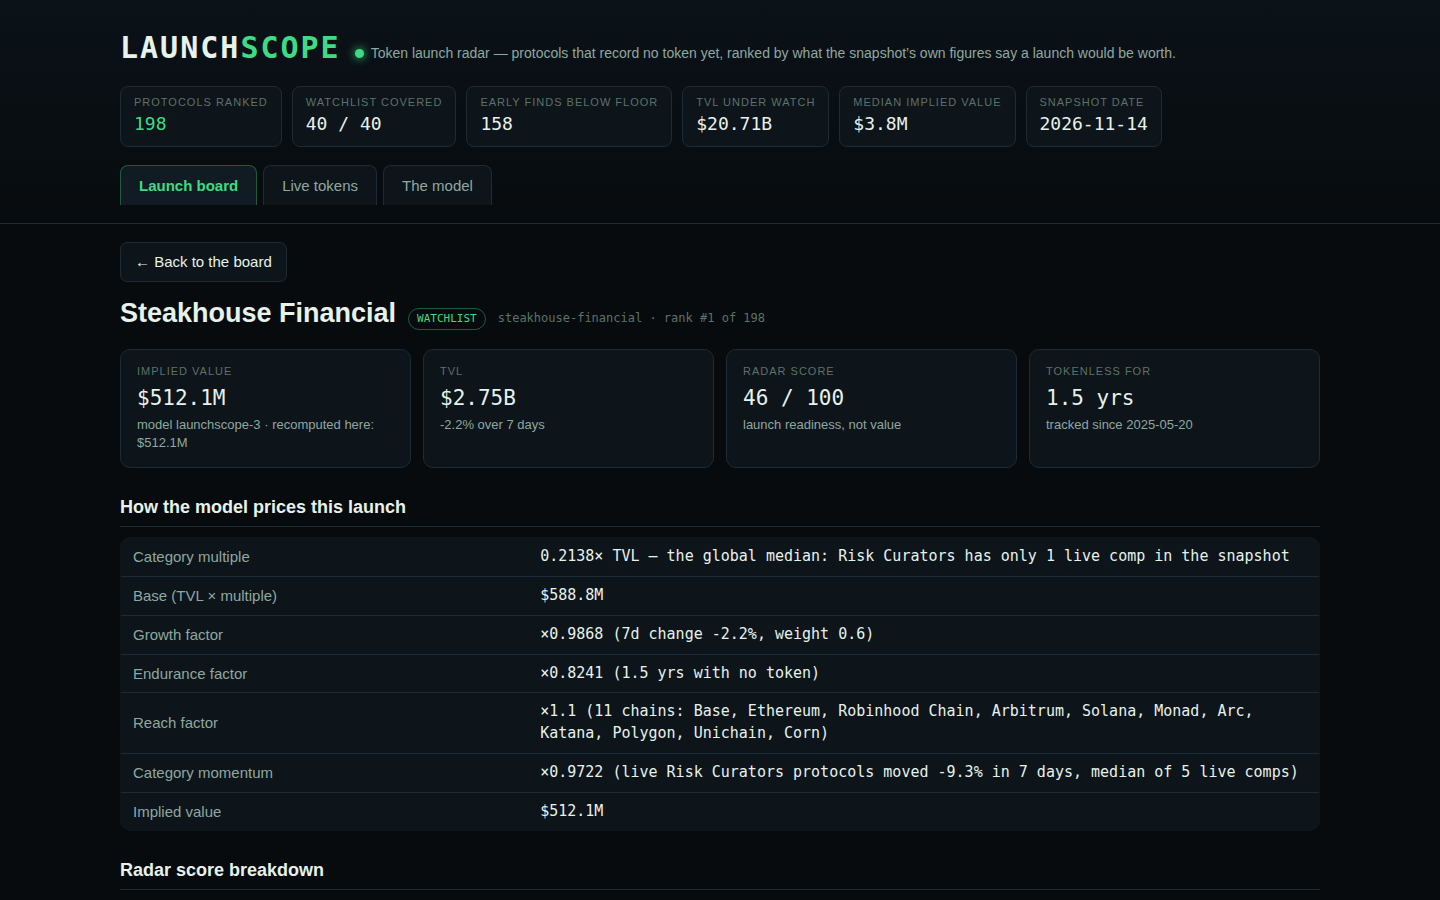
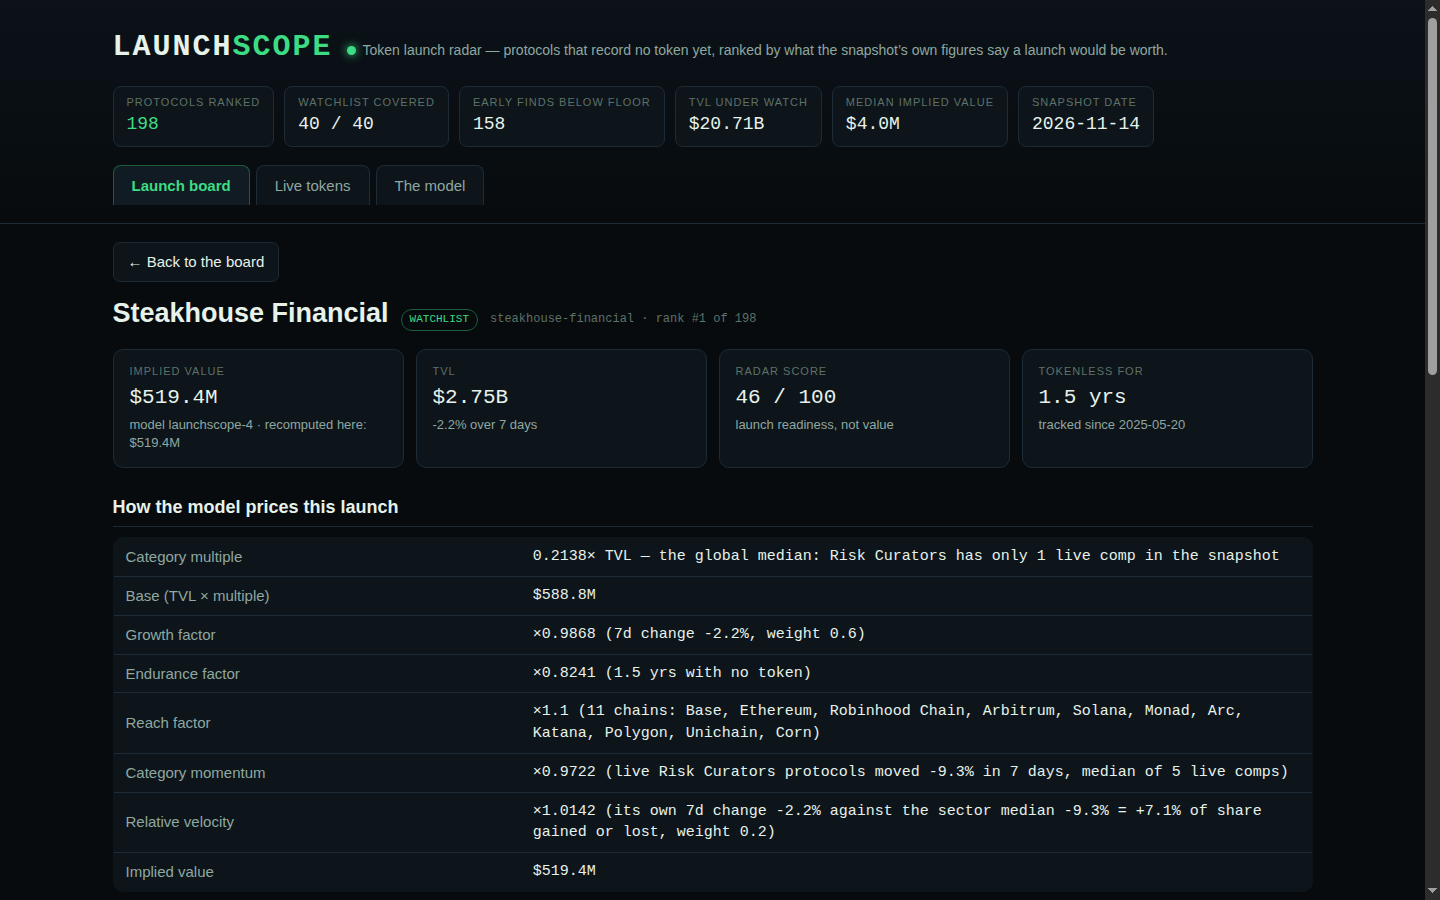
LaunchScope: relative-velocity factor (model launchscope-4)
Sector-relative velocity: a protocol's own 7-day TVL change against its
category's median live-token change, weight 0.2, clamped [-50, +100].
Growth rewards absolute momentum; relative rewards winning share inside
the sector. No adjustment when the snapshot reports no 7-day change.
Re-ranks 92/198 rows (top 10 unchanged); dashboard gains a fifth signal
card, a detail-view breakdown row, a sector-lag risk note and a sandbox
slider. Sandbox recompute matches to 0.03%.

diff --git a/dashboard/app.js b/dashboard/app.js
@@ -60,7 +60,8 @@
     var age = row.age_days === null ? M.unknown_age_days : row.age_days;
     var range = sb ? M.endurance_range * sb.endurance : M.endurance_range;
     var enduranceMult = M.endurance_floor + (clamp(age, 0, M.endurance_days) / M.endurance_days) * range;
-    return Math.max(1, Math.round(row.tvl_usd * multiple * growthMult * enduranceMult * row.model.reach_multiplier * row.model.momentum_multiplier));
+    var relMult = sb ? 1 + (clamp(row.model.relative_pct, M.growth_floor, M.growth_cap) / 100) * sb.relative : row.model.relative_multiplier;
+    return Math.max(1, Math.round(row.tvl_usd * multiple * growthMult * enduranceMult * row.model.reach_multiplier * row.model.momentum_multiplier * relMult));
   }
 
   /* ---------- routing / state ---------- */
@@ -177,6 +178,7 @@
     var byTvl = DATA.rows.slice().sort(function (a, b) { return b.tvl_usd - a.tvl_usd; })[0];
     var fresh = DATA.rows.filter(function (r) { return r.age_days !== null && r.age_days <= 120; }).sort(function (a, b) { return b.implied_value_usd - a.implied_value_usd; })[0];
     var hotCat = DATA.categories.filter(function (c) { return c.board_protocols > 0 && c.median_change_7d !== null; }).sort(function (a, b) { return b.median_change_7d - a.median_change_7d; })[0];
+    var gainer = DATA.rows.slice().sort(function (a, b) { return b.model.relative_pct - a.model.relative_pct; })[0];
     function card(cls, k, row, d, fn) {
       return el('button', { type: 'button', class: 'signal ' + cls, onclick: fn }, [
         el('div', { class: 'k', text: k }), el('div', { class: 'v', text: row.name }), el('div', { class: 'd', text: d(row) }),
@@ -187,6 +189,7 @@
       card('amber', 'Signal · largest tokenless TVL', byTvl, function (r) { return fmtUsd(r.tvl_usd) + ' TVL · no token recorded'; }, function () { go('#/p/' + encodeURIComponent(byTvl.slug)); }),
       card('blue', 'Signal · fresh listing', fresh, function (r) { return 'tracked for ' + fmtAge(r.age_days) + ' · implied ' + fmtUsd(r.implied_value_usd); }, function () { state.sort = 'age'; state.dir = -1; go(boardHash()); }),
       hotCat ? card('blue', 'Signal · hottest category', { name: hotCat.category }, function () { return 'live ' + hotCat.category + ' protocols ' + fmtPct(hotCat.median_change_7d) + ' in 7d · ' + hotCat.board_protocols + ' on the board'; }, function () { state.cat = hotCat.category; state.tier = 'all'; go(boardHash()); }) : null,
+      card('green', 'Signal · gaining share fastest', gainer, function (r) { return fmtPct(r.model.relative_pct) + ' vs its own sector in 7d · implied ' + fmtUsd(r.implied_value_usd); }, function () { go('#/p/' + encodeURIComponent(gainer.slug)); }),
     ]);
   }
   function boardView() {
@@ -261,6 +264,7 @@
     if (r.chains.length <= 1) notes.push(['amber', 'Single-chain presence: the reach factor is at its floor. A launch, if it comes, likely starts and ends on ' + (r.chains[0] || 'one chain') + '.']);
     if (r.model.multiple_source === 'global') notes.push(['amber', 'Thin comp set: ' + (r.category || 'its category') + ' has ' + (r.model.comps_used === 0 ? 'no live-token protocols' : 'only ' + r.model.comps_used + ' live comp' + (r.model.comps_used === 1 ? '' : 's')) + ' in the snapshot, so the implied value uses the global median multiple (' + DATA.global_multiple + '\u00D7 TVL) instead of a category price. Read it as rougher than its neighbours.']);
     if (r.model.category_momentum_pct < -10) notes.push(['red', 'Cooling category: live ' + (r.category || 'Uncategorised') + ' protocols fell ' + fmtPct(r.model.category_momentum_pct) + ' in 7 days, so the momentum factor already discounts the implied value. A sector losing TVL can still launch a token — but it launches into a headwind.']);
+    if (r.model.relative_pct < -10) notes.push(['red', 'Losing share inside its own sector: this protocol grew ' + fmtPct(r.model.relative_pct) + ' against live ' + (r.category || 'Uncategorised') + ' protocols over 7 days, so the relative-velocity factor discounts it even when its absolute growth looks fine. Users are choosing its sector peers over it.']);
     if (r.implied_value_usd / r.tvl_usd > 2) notes.push(['red', 'Rich implied multiple: the model prices this launch above 2\u00D7 current TVL. That is the category\u2019s market price carried over, not a promise — small errors in the multiple move this value a lot.']);
     if (notes.length === 0) notes.push(['amber', 'No structural flags: size, growth, age and reach are all inside the ranges the model handles well. The standing risk remains — the snapshot records no token, which is not proof none exists, and no model can say whether or when one is issued.']);
     return notes;
@@ -296,6 +300,7 @@
         kv('Endurance factor', '\u00D7' + r.model.endurance_multiplier + ' (' + fmtAge(r.age_days) + ' with no token)'),
         kv('Reach factor', '\u00D7' + r.model.reach_multiplier + ' (' + r.chains.length + ' chain' + (r.chains.length === 1 ? '' : 's') + ': ' + (r.chains.join(', ') || 'none recorded') + ')'),
         kv('Category momentum', '\u00D7' + r.model.momentum_multiplier + ' (live ' + (r.category || 'Uncategorised') + ' protocols moved ' + fmtPct(r.model.category_momentum_pct) + ' in 7 days' + (r.model.momentum_source === 'category' ? ', median of ' + r.model.momentum_comps + ' live comps' : ', the global median: too few live comps in this category') + ')'),
+        kv('Relative velocity', '\u00D7' + r.model.relative_multiplier + ' (its own 7d change ' + fmtPct(r.change_7d) + ' against the sector median ' + fmtPct(r.model.category_momentum_pct) + ' = ' + fmtPct(r.model.relative_pct) + ' of share gained or lost, weight ' + M.relative_weight + (r.change_7d === null ? '; no 7d change reported, so no adjustment' : '') + ')'),
         kv('Implied value', fmtUsd(r.implied_value_usd)),
       ]),
       el('h2', { class: 'sec', text: 'Radar score breakdown' }),
@@ -336,7 +341,7 @@
   }
 
   /* ---------- model view ---------- */
-  var sb = { growth: M.growth_weight, endurance: 1, blend: 1 };
+  var sb = { growth: M.growth_weight, endurance: 1, blend: 1, relative: M.relative_weight };
   function modelView() {
     var top10 = el('div', {});
     function drawTop() {
@@ -356,11 +361,12 @@
       el('h2', { class: 'sec', text: 'The model, in full — ' + DATA.model_version }),
       el('div', { class: 'formula' }, [
         document.createTextNode('multiple(category) = median market-cap / TVL of the live-token protocols in it (global median '), el('b', { text: DATA.global_multiple + '\u00D7' }), document.createTextNode(' when a category has under ' + M.min_category_comps + ' comps), clamped to [' + M.multiple_floor + ', ' + M.multiple_cap + ']'),
-        el('br'), document.createTextNode('implied = TVL \u00D7 multiple \u00D7 '), el('b', { text: 'growth' }), document.createTextNode(' \u00D7 '), el('b', { text: 'endurance' }), document.createTextNode(' \u00D7 '), el('b', { text: 'reach' }), document.createTextNode(' \u00D7 '), el('b', { text: 'momentum' }),
+        el('br'), document.createTextNode('implied = TVL \u00D7 multiple \u00D7 '), el('b', { text: 'growth' }), document.createTextNode(' \u00D7 '), el('b', { text: 'endurance' }), document.createTextNode(' \u00D7 '), el('b', { text: 'reach' }), document.createTextNode(' \u00D7 '), el('b', { text: 'momentum' }), document.createTextNode(' \u00D7 '), el('b', { text: 'relative' }),
         el('br'), document.createTextNode('growth = 1 + clamp(7d change, ' + M.growth_floor + ', ' + M.growth_cap + ') / 100 \u00D7 ' + M.growth_weight),
         el('br'), document.createTextNode('endurance = ' + M.endurance_floor + ' + ' + M.endurance_range + ' \u00D7 min(tokenless days, ' + M.endurance_days + ') / ' + M.endurance_days + '  (unknown age counts ' + M.unknown_age_days + ' days)'),
         el('br'), document.createTextNode('reach = 1 + ' + M.reach_per_chain + ' \u00D7 min(chains \u2212 1, ' + M.reach_max_extra_chains + ')'),
         el('br'), document.createTextNode('momentum = 1 + clamp(category 7d change, ' + M.growth_floor + ', ' + M.growth_cap + ') / 100 \u00D7 ' + M.momentum_weight + '  (median 7d TVL change of the category\u2019s live-token protocols; the global median ' + fmtPct(DATA.global_momentum_pct) + ' when a category has under ' + M.min_category_comps + ' live comps reporting one)'),
+        el('br'), document.createTextNode('relative = 1 + clamp(own 7d change \u2212 category 7d change, ' + M.growth_floor + ', ' + M.growth_cap + ') / 100 \u00D7 ' + M.relative_weight + '  (share gained or lost against the sector; 0 when the snapshot reports no 7d change for the protocol — growth rewards absolute momentum, relative rewards winning share)'),
       ]),
       el('p', { class: 'note', text: 'One function scores every protocol; no name is special-cased and no row is hand-picked. The board covers all ' + DATA.watchlist_size + ' watchlist protocols and adds ' + DATA.early_size + ' early finds below the ' + fmtUsd(DATA.floor_usd) + ' floor, excluding wrapped, staked, bridged and versioned products of tokens that already trade. The radar score (size 30, momentum 20, endurance 20, category heat 20, reach 10) grades launch readiness and never changes the ranking, which is by implied value alone.' }),
       el('h2', { class: 'sec', text: 'Re-run it yourself — the sandbox' }),
@@ -369,6 +375,7 @@
         slider('Growth weight', 'growth', 0, 1, 0.05, function (v) { return v.toFixed(2); }),
         slider('Endurance strength', 'endurance', 0, 1, 0.05, function (v) { return Math.round(v * 100) + '%'; }),
         slider('Category blend (0 = global multiple)', 'blend', 0, 1, 0.05, function (v) { return Math.round(v * 100) + '%'; }),
+        slider('Relative velocity weight', 'relative', 0, 0.5, 0.05, function (v) { return v.toFixed(2); }),
       ]),
       top10,
       el('h2', { class: 'sec', text: 'Category multiples — the market\u2019s own prices, from this snapshot' }),

diff --git a/lib/model.ts b/lib/model.ts
@@ -23,7 +23,14 @@
 //                 momentumMult = 1 + clamp(momentum, -50, 100)/100 x 0.3, so a
 //                 sector whose live tokens are growing lifts its pre-token
 //                 names, and a cooling sector discounts them
-//   implied     = max(1, round(base x growthMult x endurance x reach x momentumMult))
+//   relative     = the protocol's own velocity against its sector: its 7-day TVL
+//                 change minus the category momentum above (0 when the snapshot
+//                 reports no 7-day change for it);
+//                 relativeMult = 1 + clamp(relative, -50, 100)/100 x 0.2, so a
+//                 protocol gaining share inside its own sector rises above a
+//                 peer that merely rides the sector's tide — growth rewards
+//                 absolute momentum, relative rewards winning share
+//   implied     = max(1, round(base x growthMult x endurance x reach x momentumMult x relativeMult))
 //
 // A separate radar score (0-100) grades launch readiness from size, momentum,
 // endurance, reach and category heat. It is shown beside the value, never used
@@ -70,6 +77,7 @@ export interface ModelConstants {
   multiple_cap: number;
   min_category_comps: number;
   momentum_weight: number;
+  relative_weight: number;
 }
 
 export const MODEL: ModelConstants = {
@@ -86,10 +94,11 @@ export const MODEL: ModelConstants = {
   multiple_cap: 2.5,
   min_category_comps: 3,
   momentum_weight: 0.3,
+  relative_weight: 0.2,
 };
 
 /** The model's version label: the dashboard names it and board.json carries it. */
-export const MODEL_VERSION = 'launchscope-3';
+export const MODEL_VERSION = 'launchscope-4';
 
 /** How many live-token protocols the dashboard's Live view carries, by market cap. */
 export const LIVE_ROWS = 30;
@@ -125,6 +134,8 @@ export interface BoardRow {
     momentum_multiplier: number;
     momentum_source: 'category' | 'global';
     momentum_comps: number;
+    relative_pct: number;
+    relative_multiplier: number;
     age_days: number | null;
   };
   farm_steps: string[];
@@ -319,7 +330,7 @@ export function impliedValue(
   multiples: Multiples,
   momentum: Momentum,
   model: ModelConstants = MODEL,
-): { implied: number; multiple: number; comps: number; source: 'category' | 'global'; growthPct: number; growthMult: number; enduranceMult: number; reachMult: number; momentumPct: number; momentumMult: number; momentumSource: 'category' | 'global'; momentumComps: number; age: number | null } {
+): { implied: number; multiple: number; comps: number; source: 'category' | 'global'; growthPct: number; growthMult: number; enduranceMult: number; reachMult: number; momentumPct: number; momentumMult: number; momentumSource: 'category' | 'global'; momentumComps: number; relativePct: number; relativeMult: number; age: number | null } {
   const age = ageDays(asOf, protocol.listed_at);
   const { multiple, comps, source } = multipleFor(protocol, multiples);
   const growthPct = clamp(finite(protocol.change_7d, 0), model.growth_floor, model.growth_cap);
@@ -330,8 +341,15 @@ export function impliedValue(
   const mom = momentumFor(protocol, momentum);
   const momentumPct = clamp(mom.momentum, model.growth_floor, model.growth_cap);
   const momentumMult = 1 + (momentumPct / 100) * model.momentum_weight;
-  const implied = Math.max(1, Math.round(protocol.tvl_usd * multiple * growthMult * enduranceMult * reachMult * momentumMult));
-  return { implied, multiple, comps, source, growthPct, growthMult, enduranceMult, reachMult, momentumPct, momentumMult, momentumSource: mom.source, momentumComps: mom.comps, age };
+  // Relative velocity: the protocol's own 7-day change against its sector's
+  // median live-token change. A protocol with no reported 7-day change carries
+  // no signal here (0), rather than borrowing its sector's move.
+  const relativePct = protocol.change_7d === null || !Number.isFinite(protocol.change_7d)
+    ? 0
+    : clamp(protocol.change_7d - mom.momentum, model.growth_floor, model.growth_cap);
+  const relativeMult = 1 + (relativePct / 100) * model.relative_weight;
+  const implied = Math.max(1, Math.round(protocol.tvl_usd * multiple * growthMult * enduranceMult * reachMult * momentumMult * relativeMult));
+  return { implied, multiple, comps, source, growthPct, growthMult, enduranceMult, reachMult, momentumPct, momentumMult, momentumSource: mom.source, momentumComps: mom.comps, relativePct, relativeMult, age };
 }
 
 /** The radar score's five parts and their sum: launch readiness, 0 to 100. */
@@ -519,6 +537,8 @@ export function buildBoard(snapshot: Snapshot, model: ModelConstants = MODEL): B
       momentum_multiplier: round4(row.v.momentumMult),
       momentum_source: row.v.momentumSource,
       momentum_comps: row.v.momentumComps,
+      relative_pct: round4(row.v.relativePct),
+      relative_multiplier: round4(row.v.relativeMult),
       age_days: row.v.age,
     },
     farm_steps: farmSteps(row.p, row.v.age),

diff --git a/main.ts b/main.ts
@@ -10,7 +10,8 @@
 // The model in one line: a protocol's implied value is its TVL priced at the
 // median market-cap/TVL multiple of the live-token protocols in its own
 // category, adjusted for its 7-day growth, for how long it has run with no
-// token, and for its chain reach. The dashboard restates the model in full.
+// token, for its chain reach, for its category's momentum, and for its own
+// velocity against that category. The dashboard restates the model in full.
 //
 // Outside the grader's container, MAKEFUN_OUTPUT_DIR stands in for /output:
 //   mkdir -p out && MAKEFUN_OUTPUT_DIR=out node main.ts --input ../token-radar-01-kit/input/snapshot.json

diff --git a/dashboard/app.css b/dashboard/app.css
@@ -56,6 +56,7 @@ nav.tabs button[aria-pressed="true"] { background: var(--panel-2); color: var(--
 .signal:hover { border-color: var(--green-dim); }
 .signal.amber { border-left-color: var(--amber); }
 .signal.blue { border-left-color: var(--blue); }
+.signal.green { border-left-color: var(--green); }
 .signal .k { font-size: 11px; text-transform: uppercase; letter-spacing: 1px; color: var(--faint); }
 .signal .v { font-size: 16px; font-weight: 600; margin-top: 2px; }
 .signal .d { color: var(--muted); font-size: 13px; font-family: var(--mono); }

diff --git a/README.md b/README.md
@@ -12,24 +12,37 @@ snapshot carries — the early finds below the $50M floor are the point of a
 radar — while protocols whose token already trades are kept apart in a Live
 view and never ranked.
 
-**The model** (version `launchscope-3`, restated in full inside the
+**The model** (version `launchscope-4`, restated in full inside the
 dashboard): the market itself prices each category. For every live-token
 protocol in the snapshot, market cap ÷ TVL is computed; a category's multiple
 is the median of its live protocols. A pre-token protocol's implied value is
 then
 
 ```
-implied = TVL × category multiple × growth × endurance × reach × momentum
+implied = TVL × category multiple × growth × endurance × reach × momentum × relative
 growth    = 1 + clamp(7-day TVL change, −50, +100)/100 × 0.6
 endurance = 0.72 + 0.28 × min(days with no token, 1460)/1460
 reach     = 1 + 0.02 × min(chains − 1, 5)
 momentum  = 1 + clamp(category 7-day change, −50, +100)/100 × 0.3
+relative  = 1 + clamp(own 7-day change − category 7-day change, −50, +100)/100 × 0.2
 ```
 
 The momentum factor is the category's own direction of travel: the median
 7-day TVL change of its live-token protocols (the global median when a
 category has too few live comps reporting one). A sector whose live tokens are
 growing lifts its pre-token names; a cooling sector discounts them.
+
+The relative factor is the protocol's own velocity against that sector: its
+7-day TVL change minus the category's median live-token change. Growth
+rewards absolute momentum; relative rewards winning share — a protocol
+outgrowing its own sector rises above a peer that merely rides the sector's
+tide, and one lagging its sector is discounted even when its absolute growth
+looks fine. A protocol the snapshot gives no 7-day change for carries no
+adjustment here (0), rather than borrowing its sector's move. On this
+snapshot the factor re-ranks 92 of 198 rows (top 10 unchanged): the biggest
+movers are protocols whose own growth diverges most from their sector, e.g.
+Anemoy Capital #84 → #98 (−72.7% own vs −1.0% sector) and Theo Network
+#94 → #83 (+94.0% own vs −1.0% sector).
 
 Alongside the value, each row carries a 0–100 radar score for launch
 readiness (size, momentum, endurance, category heat, reach). The score never
@@ -39,8 +52,9 @@ model page lets a reader re-run the ranking with different weights, live.
 
 **The dashboard** is a static page with no framework and no network: a
 sortable, filterable board (search, category, chain, watchlist/early tiers,
-plus four signal cards for the fastest riser, the largest tokenless TVL, a
-fresh listing and the hottest category by live-token momentum), a detail view per protocol with the full model breakdown,
+plus five signal cards for the fastest riser, the largest tokenless TVL, a
+fresh listing, the hottest category by live-token momentum, and the protocol
+gaining share fastest against its own sector), a detail view per protocol with the full model breakdown,
 generated risk notes, its live category comps and a seven-step farm plan with
 a cost and a time on every step, a Live tokens view, and the model page with
 the category-multiple table and sandbox.
